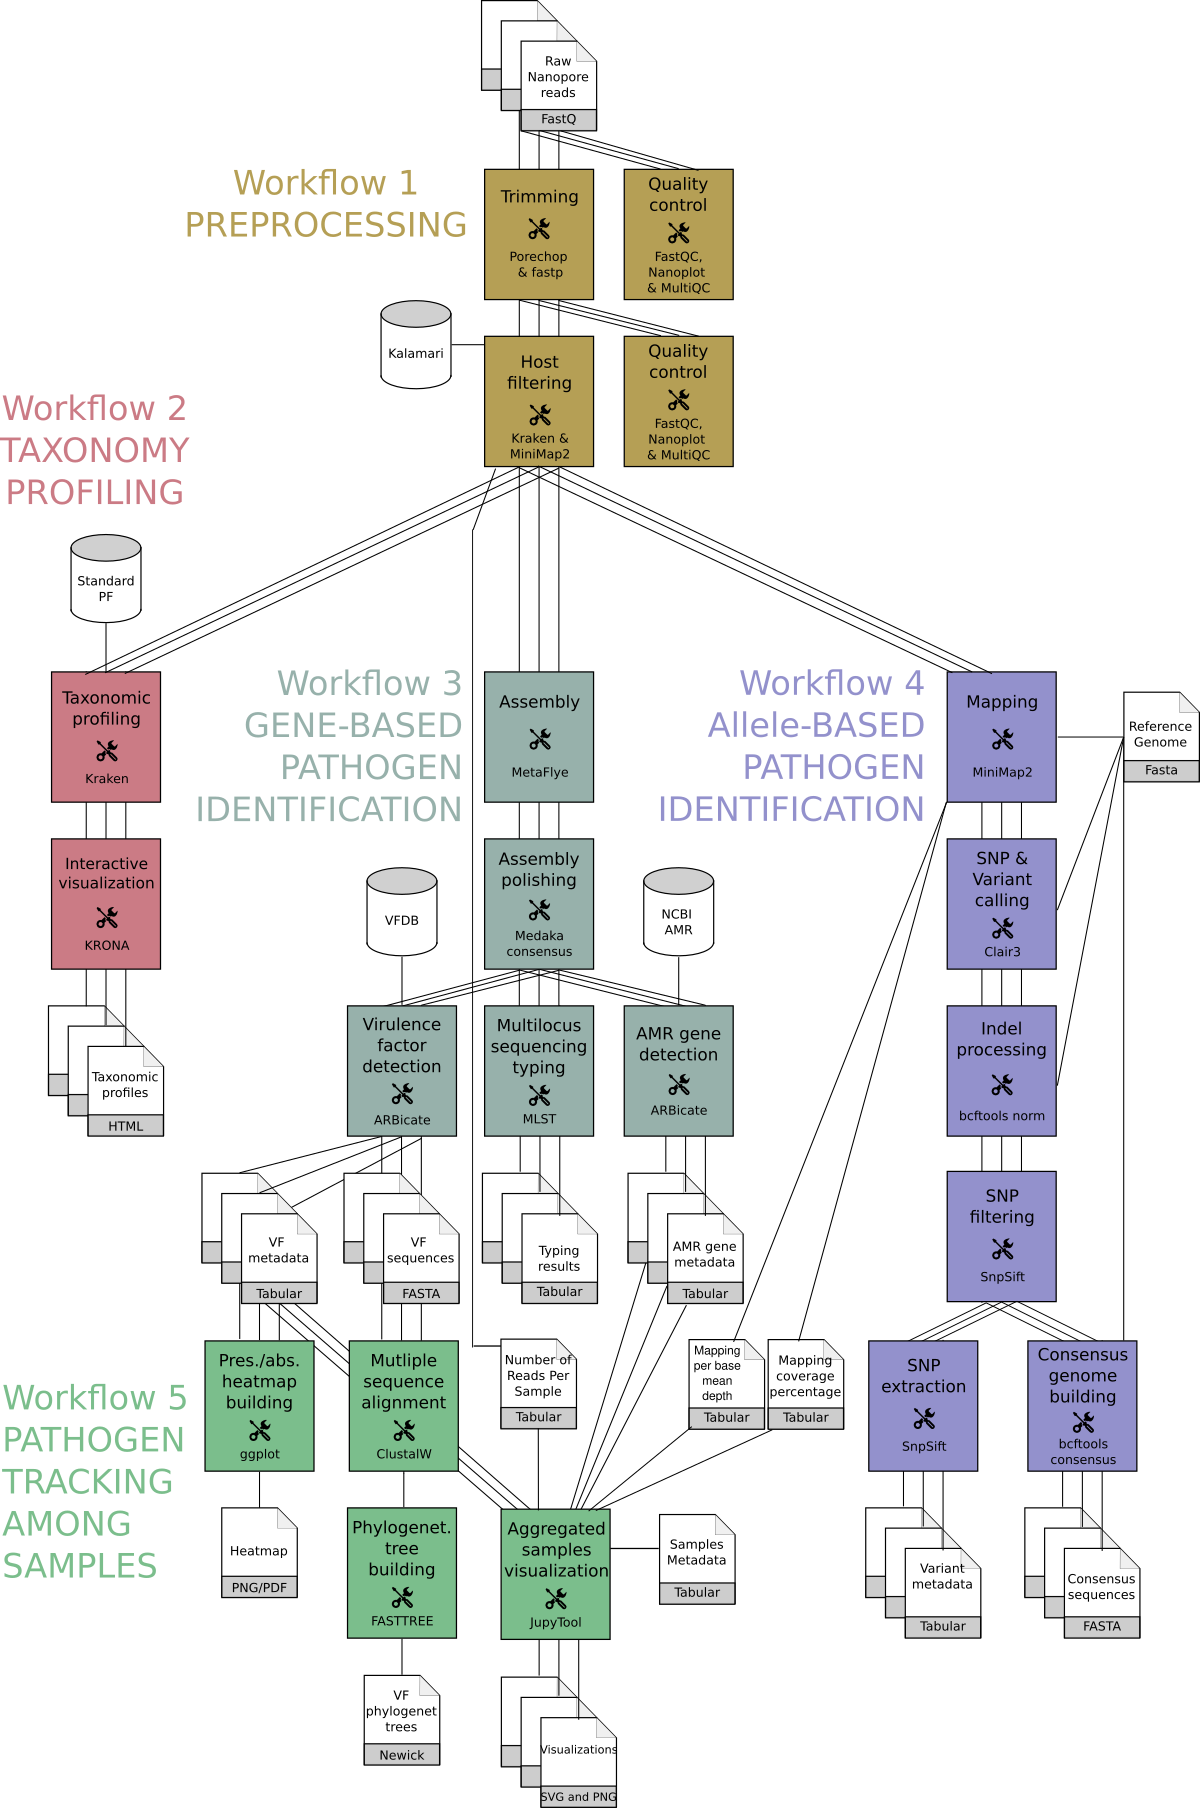
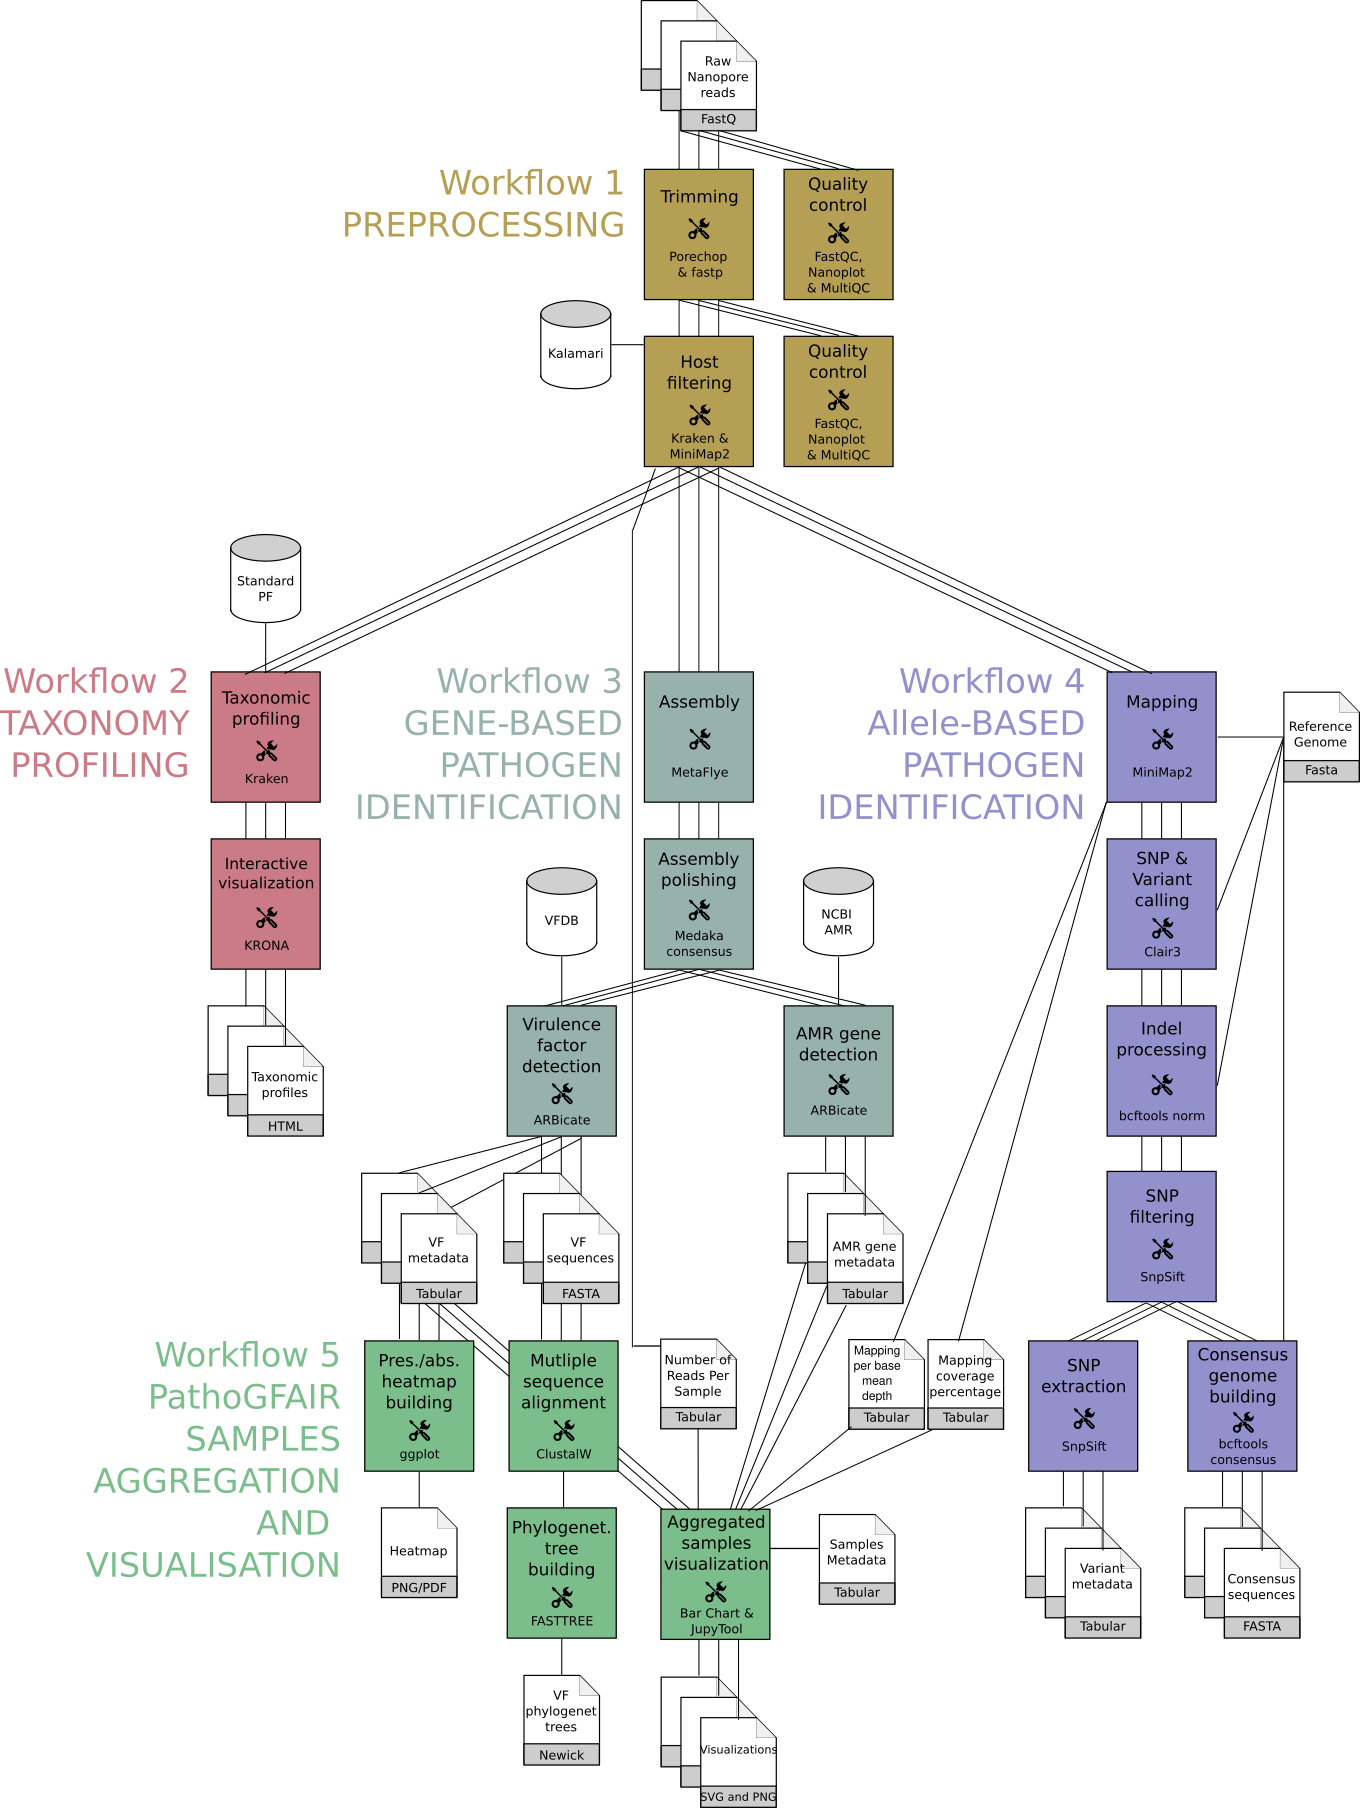
updating readme to include a Galaxy History link for running PathoGFAIR on Biolytix datasets, and updating the workflow figure

Changed region(s): [[0.0, 0.0, 0.9867, 1.0], [0.9867, 0.3717, 1.0, 0.4027], [0.7092, 0.5885, 0.74, 0.6195]]

diff --git a/README.md b/README.md
@@ -12,15 +12,15 @@ Welcome to the GitHub repository for the Foodborne Pathogen Detection and Tracki
 
 	PathoGFair consists of 5 workflows that are created to be scalable to any other type of sequencing technique as well as agnostic such that it can detect all possible pathogens without specifying any pathogen species or giving any information about the input samples to the workflows. The 5 workflows are:
 
-	- **Pre-processing**: where the quality controlling, reads trimming for quality retaining, host sequences removal and other contaminating sequences removal takes place
+	- **Preprocessing**: where the quality controlling, reads trimming for quality retaining, host sequences removal and other contaminating sequences removal takes place
 	- **Taxonomy Profiling**: where taxonomy profiling take place identifying and visualizing our samples' community abundances down to the subspecies level
-	- **Gene-based Pathogeneic Identification**: where we identify all possible pathogens by identifying all the Virulence factors (VFs) genes and their specific locations, we also perform more analysis by identifying the MLST scheme for all the samples and the AMR genes
-	- **Allele-based Pathogeneic Identification**: where we identify all the SNPs and and create the consensus sequences of all samples
-	- **All Samples Analysis**: where we visualize the outputs of the pathogens drawing a heatmap of all the found pathogenic genes for all samples, and phylogenetic trees relating samples together per common pathogenic genes found
+	- **Gene-based Pathogen Identification**: where we identify all possible pathogens by identifying all the Virulence factors (VFs) genes and their specific locations, we also perform more analysis by identifying the MLST scheme for all the samples and the AMR genes
+	- **Allele-based Pathogen Identification**: where we identify all the SNPs and and create the consensus sequences of all samples
+	- **PathoGFAIR Samples Aggregation and Visualisation**: where we visualize the outputs of the pathogens drawing a heatmap of all the found pathogenic genes for all samples,  phylogenetic trees relating samples together per common pathogenic genes found, and bar charts for important tabular outputs of previous workflows, e.g. number of identified SNPs and variants per sample, number of removed host reads and mapping depth and coverage.
 
 - **Training Material:** To assist users in understanding and using the workflows, we have provided extensive training material. This includes tutorials, documentation, and guidelines available via the Galaxy Training Network [GTN](https://bit.ly/pathogen-tuto).
 
-- **Notebooks:** In this repository, you'll find Jupyter notebooks that utilize the output generated by the workflows. These notebooks are designed to help users visualize and analyze the results, producing figures similar to those presented in the associated paper. The notebook is designed to be one of the inputs to Workflow 5 before running the workflow in a Galaxy instance. 
+- **Notebooks:** In this repository, you'll find Jupyter notebooks that utilize the output generated by the workflows. These notebooks are designed for reproducing paper associated figures, and give users the possibility to produce similar extra figures other than the ones already included in workflow 5. The notebook is also designed to run on any Galaxy instance using Jupytool. 
 
 ## How to Run the Workflows
 
@@ -41,6 +41,11 @@ Welcome to the GitHub repository for the Foodborne Pathogen Detection and Tracki
 - **Publication figures:** The `docs/figures` directory contains all figures mentioned in the paper.
 
 - **Publication tables:** The `docs/tables` directory contains all tables mentioned in the paper.
+
+
+## Galaxy History
+
+The [Galaxy history](https://usegalaxy.eu/u/engy.nasr/h/biolytix-datasets-analysis) includes the output of running PathoGFAIR workflows on 46 samples, sampled and sequenced by [Biolytix](https://www.biolytix.ch/en/).
 
 
 ## Contributors
